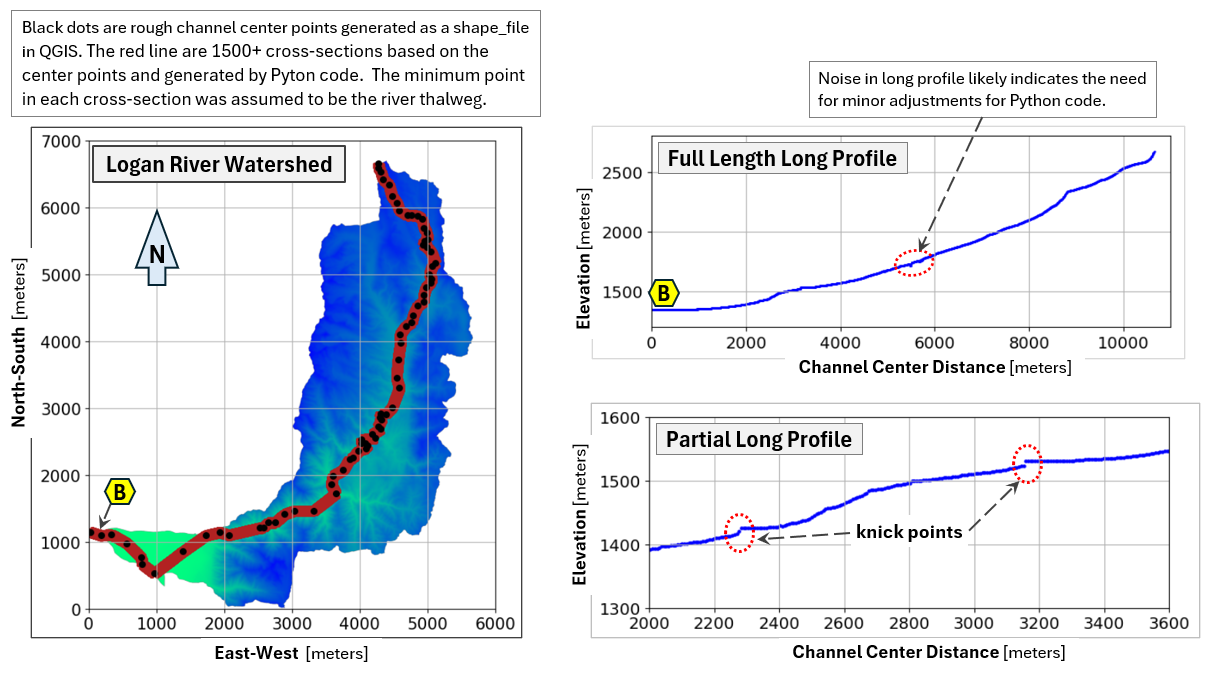
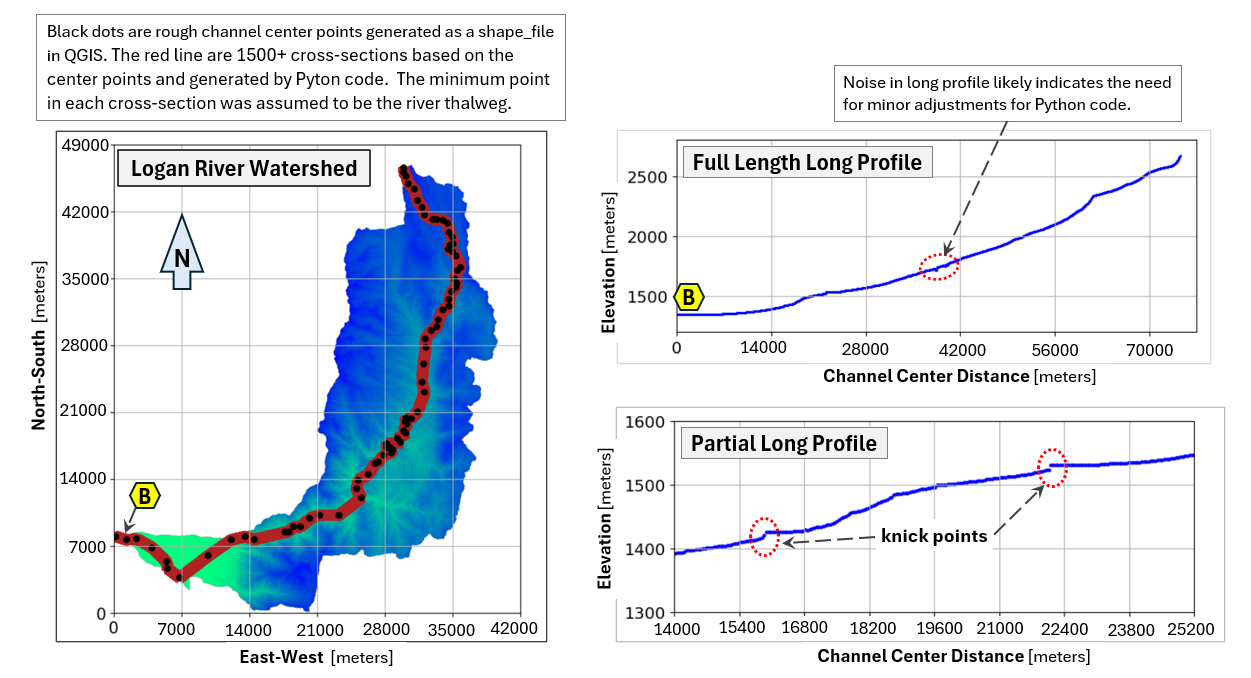
add fig

diff --git a/HW3/index.html b/HW3/index.html
@@ -30,7 +30,9 @@
     (https://extension.usu.edu/forestry/trees-cities-towns/urban-forestry/logan-river-plant-guide).</h4>
 
     <h2>Long Profile</h2>
-    <img src="../HW3/hw3_p2a.png" width="750" alt="">
+    <img src="../HW3/hw3_p2a20.png" width="750" alt="">
+    <img src="../HW3/hw3_p2a2.png" width="700" alt="">
+    <img src="../HW3/hw3_p2a1.png" width="850" alt="">
 
 
 
